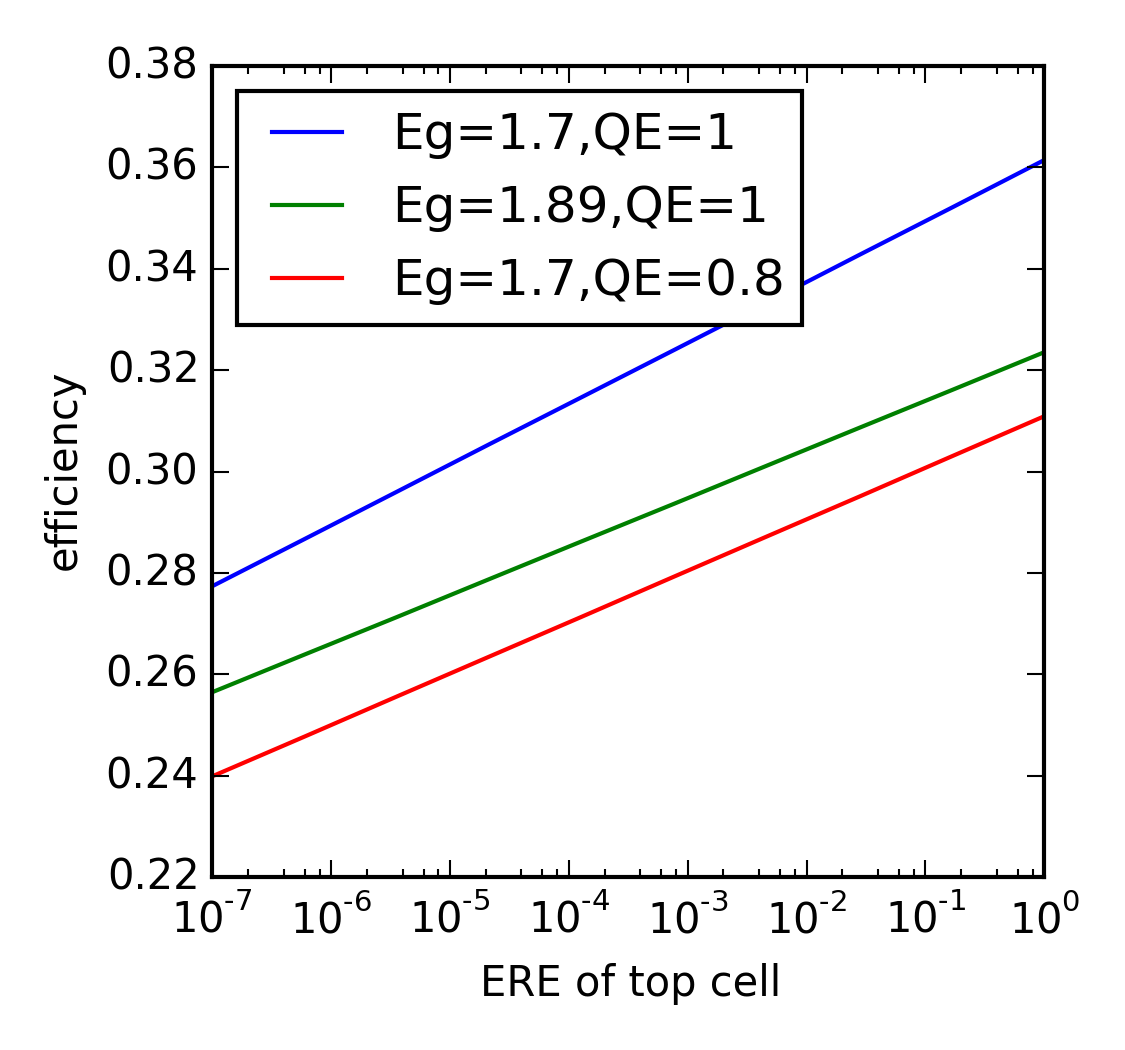
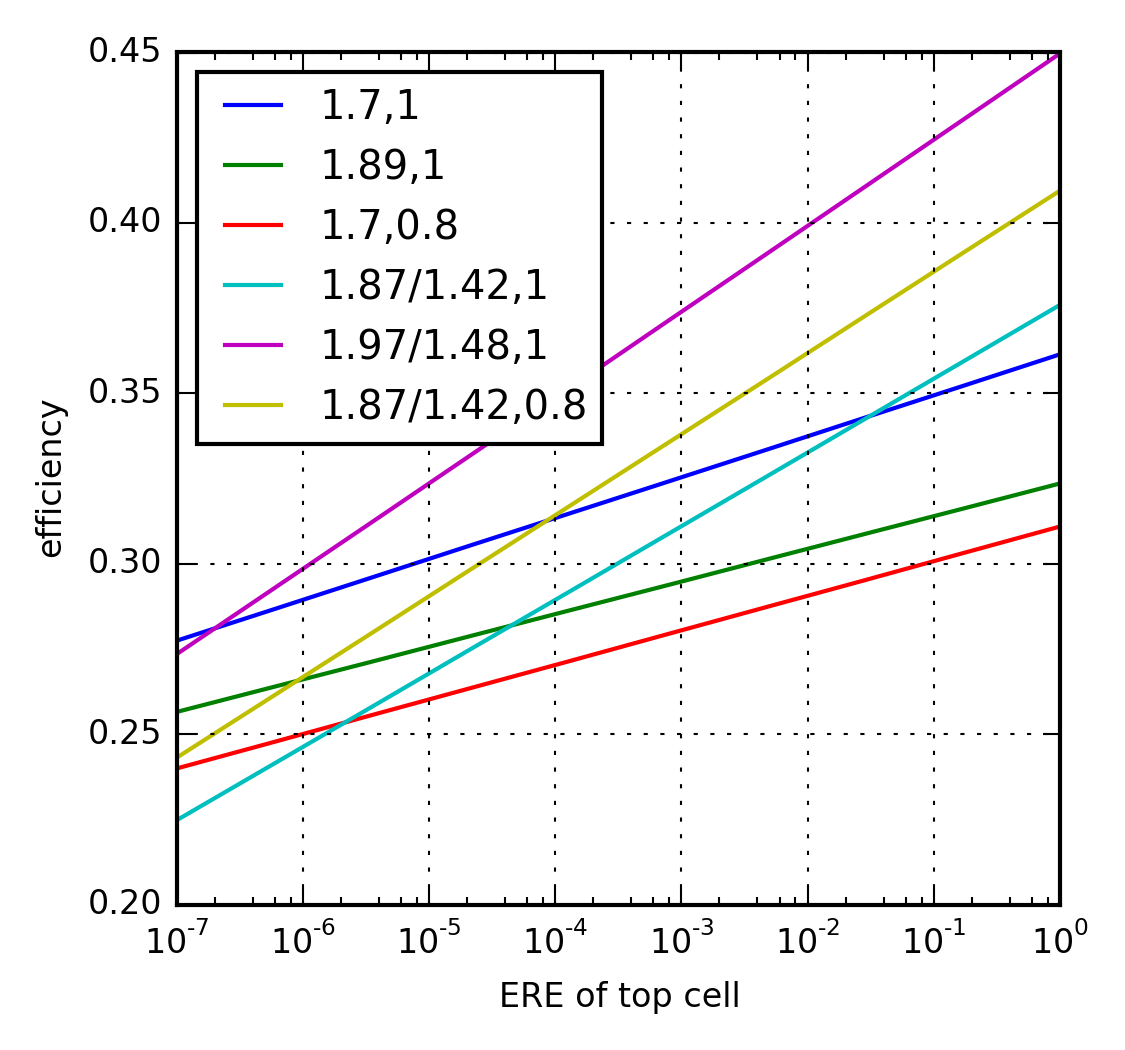
Update calc_3j_si_eta() and add 3J plots in plot_profiles.py

diff --git a/examples/plot_profiles.py b/examples/plot_profiles.py
@@ -1,46 +1,67 @@
 __author__ = 'kanhua'
 
-
-
 import numpy as np
 from scipy.interpolate import interp2d
 import matplotlib.pyplot as plt
 from scipy.io import savemat
-from iii_v_si import calc_2j_si_eta
+from iii_v_si import calc_2j_si_eta, calc_3j_si_eta
 import matplotlib as mpl
-mpl.rc('font',size=10)
-mpl.rc('xtick', labelsize=10)
-mpl.rc('ytick', labelsize=10)
+
+mpl.rc('font', size=8)
+mpl.rc('xtick', labelsize=8)
+mpl.rc('ytick', labelsize=8)
 
 
-def calc_eta_array(iii_v_rad_eta_ar,top_cell_bg,top_cell_qe):
-    eta_arr=list()
+def calc_2j_eta_array(iii_v_rad_eta_ar, top_cell_bg, top_cell_qe):
+    eta_arr = list()
     for r in iii_v_rad_eta_ar:
-        eta,_,_=calc_2j_si_eta(si_layer_t=1000e-6, si_rad_eta=0.005, top_cell_bg=top_cell_bg, top_cell_qe=top_cell_qe, top_cell_rad_eta=r)
+        eta, _, _ = calc_2j_si_eta(si_layer_t=1000e-6, si_rad_eta=0.005, top_cell_bg=top_cell_bg,
+                                   top_cell_qe=top_cell_qe, top_cell_rad_eta=r)
         eta_arr.append(eta)
-    eta_arr=np.array(eta_arr)
-    plt_label="Eg={},QE={}".format(top_cell_bg,top_cell_qe)
-    return eta_arr,plt_label
+    eta_arr = np.array(eta_arr)
+    plt_label = "{},{}".format(top_cell_bg, top_cell_qe)
+    return eta_arr, plt_label
 
 
-if __name__=="__main__":
+def calc_3j_eta_array(iii_v_rad_eta, top_cell_bg, top_cell_qe, mid_cell_bg, mid_cell_qe):
+    eta_arr = list()
+    for r in iii_v_rad_eta_ar:
+        eta, _, _, _ = calc_3j_si_eta(r, r, 1, top_band_gap=top_cell_bg, mid_band_gap=mid_cell_bg,
+                                      top_cell_qe=top_cell_qe, mid_cell_qe=mid_cell_qe)
+        # calc_2j_si_eta(si_layer_t=1000e-6, si_rad_eta=0.005, top_cell_bg=top_cell_bg,
+        #                       top_cell_qe=top_cell_qe, top_cell_rad_eta=r)
+        eta_arr.append(eta)
+    eta_arr = np.array(eta_arr)
+    plt_label = "{}/{},{}".format(top_cell_bg, mid_cell_bg,top_cell_qe)
+    return eta_arr, plt_label
 
-    si_rad_eta_ar_num=10
+    pass
+
+
+if __name__ == "__main__":
+    si_rad_eta_ar_num = 10
     iii_v_rad_eta_ar = np.logspace(-7, 0, num=si_rad_eta_ar_num)
-    e1,lab1=calc_eta_array(iii_v_rad_eta_ar,1.7,1)
-    e2,lab2=calc_eta_array(iii_v_rad_eta_ar,1.89,1)
-    e3,lab3=calc_eta_array(iii_v_rad_eta_ar,1.7,0.8)
+    e1, lab1 = calc_2j_eta_array(iii_v_rad_eta_ar, 1.7, 1)
+    e2, lab2 = calc_2j_eta_array(iii_v_rad_eta_ar, 1.89, 1)
+    e3, lab3 = calc_2j_eta_array(iii_v_rad_eta_ar, 1.7, 0.8)
 
+    e4, lab4 = calc_3j_eta_array(iii_v_rad_eta_ar, 1.87, 1, 1.42, 1)
+    e6, lab6 = calc_3j_eta_array(iii_v_rad_eta_ar, 1.87, 0.8, 1.42, 0.8)
+    e5, lab5 = calc_3j_eta_array(iii_v_rad_eta_ar, 1.97, 1, 1.48, 1)
 
-    fig=plt.figure(figsize=(3.75, 3.5), dpi=100,tight_layout=True)
-    ax=fig.add_subplot(111)
-    ax.semilogx(iii_v_rad_eta_ar,e1,label=lab1)
-    ax.semilogx(iii_v_rad_eta_ar,e2,label=lab2)
-    ax.semilogx(iii_v_rad_eta_ar,e3,label=lab3)
+    fig = plt.figure(figsize=(3.75, 3.5), dpi=100, tight_layout=True)
+    ax = fig.add_subplot(111)
+    ax.semilogx(iii_v_rad_eta_ar, e1, label=lab1)
+    ax.semilogx(iii_v_rad_eta_ar, e2, label=lab2)
+    ax.semilogx(iii_v_rad_eta_ar, e3, label=lab3)
+    ax.semilogx(iii_v_rad_eta_ar, e4, label=lab4)
+    ax.semilogx(iii_v_rad_eta_ar, e5, label=lab5)
+    ax.semilogx(iii_v_rad_eta_ar,e6,label=lab6)
     ax.legend(loc='best')
 
     ax.set_xlabel("ERE of top cell")
     ax.set_ylabel("efficiency")
+    ax.grid(True)
 
     fig.savefig('myfig.png', dpi=300)
 

diff --git a/iii_v_si.py b/iii_v_si.py
@@ -2,14 +2,13 @@ __author__ = 'kanhua'
 
 import numpy as np
 from ivsolver import calculate_j01_from_qe, gen_rec_iv, calculate_j01, calculate_j02_from_rad_eff
-from detail_balanced_MJ import calc_mj_eta,rad_to_voc,extract_voc
+from detail_balanced_MJ import calc_mj_eta, rad_to_voc, extract_voc
 from photocurrent import gen_qe_from_abs, gen_square_qe, calc_jsc
 from spectrum_base import spectrum_base
 import matplotlib.pyplot as plt
 from fom import voc
 from illumination import illumination, bp_filter
 from scipy.interpolate import interp2d
-
 
 
 def calc_2j_si_eta(si_layer_t, si_rad_eta, top_cell_bg, top_cell_qe=1, top_cell_rad_eta=1):
@@ -42,7 +41,7 @@ def calc_2j_si_eta(si_layer_t, si_rad_eta, top_cell_bg, top_cell_qe=1, top_cell_
 
     si_voc = extract_voc(v, i, qe)
 
-    top_voc=rad_to_voc(top_cell_rad_eta,gen_square_qe(top_cell_bg,top_cell_qe))
+    top_voc = rad_to_voc(top_cell_rad_eta, gen_square_qe(top_cell_bg, top_cell_qe))
 
     eta = calc_mj_eta([top_cell_bg, 1.1], [top_cell_qe, 1], [top_cell_rad_eta, si_rad_eta], 300, replace_iv=(1, (v, i)),
                       replace_qe=(1, qe))
@@ -50,19 +49,17 @@ def calc_2j_si_eta(si_layer_t, si_rad_eta, top_cell_bg, top_cell_qe=1, top_cell_
     return eta, si_voc, top_voc
 
 
-def calc_3j_si_eta(top_cell_eta,mid_cell_eta, concentration,top_band_gap=1.87, mid_band_gap=1.42) :
-
-    si_bg=1.12
+def calc_3j_si_eta(top_cell_eta, mid_cell_eta, concentration,
+                   top_band_gap=1.87, top_cell_qe=1, mid_band_gap=1.42, mid_cell_qe=1):
+    si_bg = 1.12
     cell_temperature = 300
-    subcell_eg = np.array([top_band_gap, mid_band_gap,si_bg])
-    subcell_qe = np.array([1, 1, 1])
-    subcell_rad_eff = np.array([top_cell_eta, top_cell_eta,mid_cell_eta])
+    subcell_eg = np.array([top_band_gap, mid_band_gap, si_bg])
+    subcell_qe = np.array([top_cell_qe, mid_cell_qe, 1])
+    subcell_rad_eff = np.array([top_cell_eta, top_cell_eta, mid_cell_eta])
 
+    top_voc = rad_to_voc(top_cell_eta, gen_square_qe(top_band_gap, subcell_qe[0]))
+    mid_voc = rad_to_voc(top_cell_eta, gen_square_qe(mid_band_gap, subcell_qe[1]))
+    bot_voc = rad_to_voc(mid_cell_eta, gen_square_qe(si_bg, subcell_qe[2]))
 
-    top_voc=rad_to_voc(top_cell_eta,gen_square_qe(top_band_gap,subcell_qe[0]))
-    mid_voc=rad_to_voc(top_cell_eta,gen_square_qe(mid_band_gap,subcell_qe[1]))
-    bot_voc=rad_to_voc(mid_cell_eta,gen_square_qe(si_bg,subcell_qe[2]))
-
-
-    return calc_mj_eta(subcell_eg,subcell_qe,subcell_rad_eff,cell_temperature,concentration=concentration), \
-           top_voc,mid_voc,bot_voc
+    return calc_mj_eta(subcell_eg, subcell_qe, subcell_rad_eff, cell_temperature, concentration=concentration), \
+           top_voc, mid_voc, bot_voc
